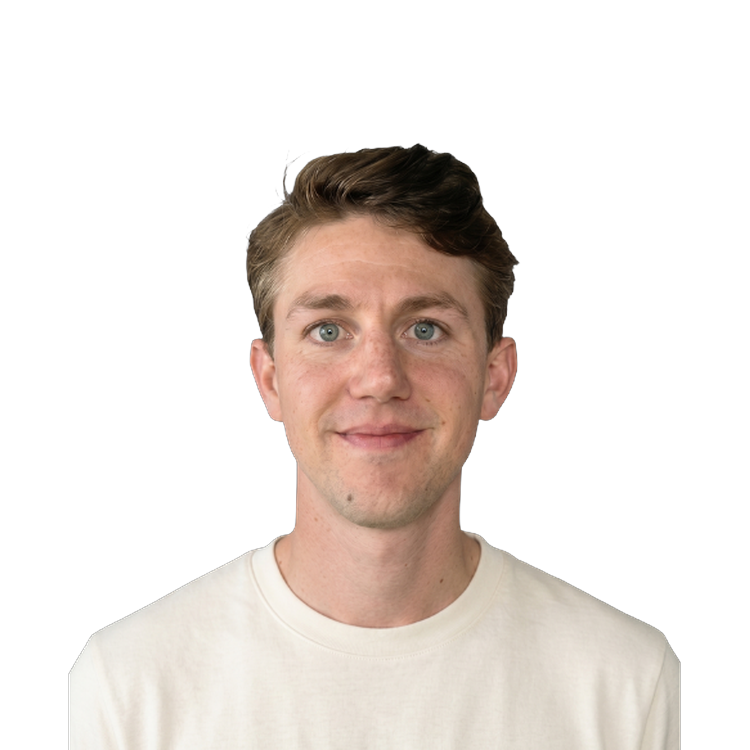
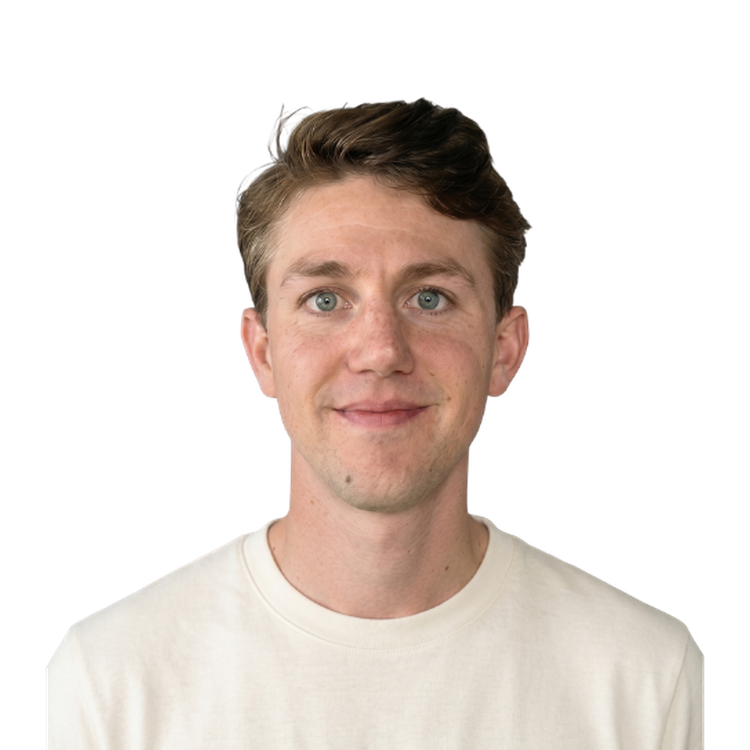
a

diff --git a/rsq.html b/rsq.html
@@ -78,11 +78,12 @@
   <div class="blob-stage blob-hero" data-blob="peanut" data-palette="2"></div>
   <div class="wrap">
     <span class="kicker-page reveal">At the CHPA Regulatory, Scientific &amp; Quality Conference · Sept 28–30, 2026</span>
-    <h1 class="reveal reveal-d1" style="margin:10px 0 0">The RSQ <img src="assets/wordmarks/claims-lab.png" alt="Claims Lab™" style="height:.84em;width:auto;vertical-align:-.05em">.</h1>
+    <h1 class="reveal reveal-d1" style="margin:10px 0 0;white-space:nowrap">The RSQ&#8201;<img src="assets/wordmarks/claims-lab.png" alt="Claims Lab™" style="height:.8em;width:auto;vertical-align:-.04em"></h1>
     <hr class="divider reveal mt-2 mb-2">
     <p class="hero-sub lead reveal reveal-d2">A working session at RSQ where you bring a real product and a real claims challenge, and walk out with findings. Not a sales pitch. A session on your own brand, with your own science.</p>
     <div class="btn-row reveal reveal-d2 mt-2">
       <a class="btn" href="#submit">Submit your challenge</a>
+      <a class="btn-ghost" href="#team">Meet the Lab team</a>
       <a class="btn-ghost" href="https://calendly.com/austin-lettherebe/chpa-rsq-claims-lab-by-let-there-be" target="_blank" rel="noopener">Pick your slot ↗</a>
     </div>
     <p class="reveal mt-2" style="color:#6b6b6e;font-weight:600">Sixteen sessions across the three days. First come, first served.</p>
@@ -140,16 +141,14 @@
   <hr class="divider mb-3">
   <span class="label reveal">Step 2 — Schedule</span>
   <h2 class="reveal reveal-d1 mb-1">Pick your 30-minute slot.</h2>
-  <p class="lead reveal mb-2">Sessions run all three days of RSQ. <strong>Please book outside the conference programming</strong> — networking breaks, meal windows, and the open blocks before and after sessions are ideal. The full program is below so you can pick a clean window.</p>
-  <div class="btn-row reveal"><a class="btn" href="https://calendly.com/austin-lettherebe/chpa-rsq-claims-lab-by-let-there-be" target="_blank" rel="noopener">Open the calendar ↗</a><a class="btn-ghost" href="https://www.chpa.org/events-education/regulatory-scientific-quality-conference" target="_blank" rel="noopener">RSQ conference page ↗</a></div>
-</div></section>
-
-<section><div class="wrap">
-  <hr class="divider mb-3">
-  <span class="label reveal">The RSQ Program · Sept 28–30</span>
-  <h2 class="reveal reveal-d1 mb-2">Plan your slot around the sessions.</h2>
-  <div class="rsq-sched reveal">
-    <div class="rsq-tabs" role="tablist">
+  <div class="rsq-cols mt-2">
+    <div class="rsq-col-left reveal">
+      <p class="lead">Sessions run all three days of RSQ. <strong>Please book outside the conference programming</strong> — networking breaks, meal windows, and the open blocks before and after sessions are ideal. The full program is on the right so you can pick a clean window.</p>
+      <div class="btn-row mt-2"><a class="btn" href="https://calendly.com/austin-lettherebe/chpa-rsq-claims-lab-by-let-there-be" target="_blank" rel="noopener">Open the calendar ↗</a><a class="btn-ghost" href="https://www.chpa.org/events-education/regulatory-scientific-quality-conference" target="_blank" rel="noopener">RSQ conference page ↗</a></div>
+    </div>
+    <div class="rsq-sched reveal reveal-d1">
+      <p style="margin:0 0 10px;font-size:.78rem;letter-spacing:.1em;text-transform:uppercase;font-weight:700;color:#12233F">The RSQ Program · Sept 28–30</p>
+      <div class="rsq-tabs" role="tablist">
       <button class="rsq-tab on" data-day="d1" role="tab">Mon · Sept 28</button>
       <button class="rsq-tab" data-day="d2" role="tab">Tue · Sept 29</button>
       <button class="rsq-tab" data-day="d3" role="tab">Wed · Sept 30</button>
@@ -188,10 +187,11 @@
       <div class="rsq-row rsq-prog"><span>1:00 PM – 5:00 PM</span><span>RSQ Workshop: New Approach Methods for OTC Topical Safety Assessment</span><b>Programming</b></div>
     </div>
     <p class="rsq-note">Schedule as published by CHPA and subject to change — check the <a href="https://www.chpa.org/events-education/regulatory-scientific-quality-conference" target="_blank" rel="noopener">official RSQ program</a> before you book. Claims Lab sessions run in the Let There Be room, off the programming floor.</p>
+    </div>
   </div>
 </div></section>
 
-<section><div class="wrap">
+<section id="team"><div class="wrap">
   <hr class="divider mb-3">
   <span class="label reveal">Who You&#8217;ll Meet</span>
   <h2 class="reveal reveal-d1 mb-2">The team running the Lab.</h2>
@@ -212,7 +212,9 @@
 </main>
 
 <style>
-.rsq-sched{background:#fff;border:1px solid #e4e4e6;border-radius:18px;padding:22px;max-width:900px}
+.rsq-sched{background:#fff;border:1px solid #e4e4e6;border-radius:18px;padding:22px}
+.rsq-cols{display:grid;grid-template-columns:minmax(280px,1fr) minmax(0,1.6fr);gap:36px;align-items:start}
+@media(max-width:900px){.rsq-cols{grid-template-columns:1fr}}
 .rsq-tabs{display:flex;gap:8px;border-bottom:3px solid #12233F;margin-bottom:6px;flex-wrap:wrap}
 .rsq-tab{font-family:inherit;font-weight:600;font-size:.92rem;padding:10px 18px;border:none;background:#f0f0f0;color:#6b6b6e;border-radius:10px 10px 0 0;cursor:pointer}
 .rsq-tab.on{background:#12233F;color:#fff}
@@ -297,7 +299,7 @@
       .then(function(r){return r.json().then(function(j){return {ok:r.ok,j:j}})})
       .then(function(res){
         if(res.ok){
-          form.innerHTML='<div class="card" style="text-align:center"><h3>Challenge received.</h3><p>Now pick your 30-minute slot — sessions are first come, first served.</p><a class="btn" href="https://calendly.com/austin-lettherebe/chpa-rsq-claims-lab-by-let-there-be" target="_blank" rel="noopener">Open the calendar ↗</a><p style="font-size:.85rem;color:#6b6b6e;margin-top:14px">Remember to book outside the conference programming — the full schedule is below.</p></div>';
+          form.innerHTML='<div class="card" style="text-align:center"><h3>Challenge received.</h3><p>Now pick your 30-minute slot — sessions are first come, first served.</p><a class="btn" href="https://calendly.com/austin-lettherebe/chpa-rsq-claims-lab-by-let-there-be" target="_blank" rel="noopener">Open the calendar ↗</a><p style="font-size:.85rem;color:#6b6b6e;margin-top:14px">Remember to book outside the conference programming — the full schedule is beside the calendar link on the page.</p></div>';
           document.getElementById('submit').scrollIntoView({behavior:'smooth'});
         }else{
           alert((res.j&&res.j.error)||'Could not send — please try again, or email alex@lettherebe.com.');
